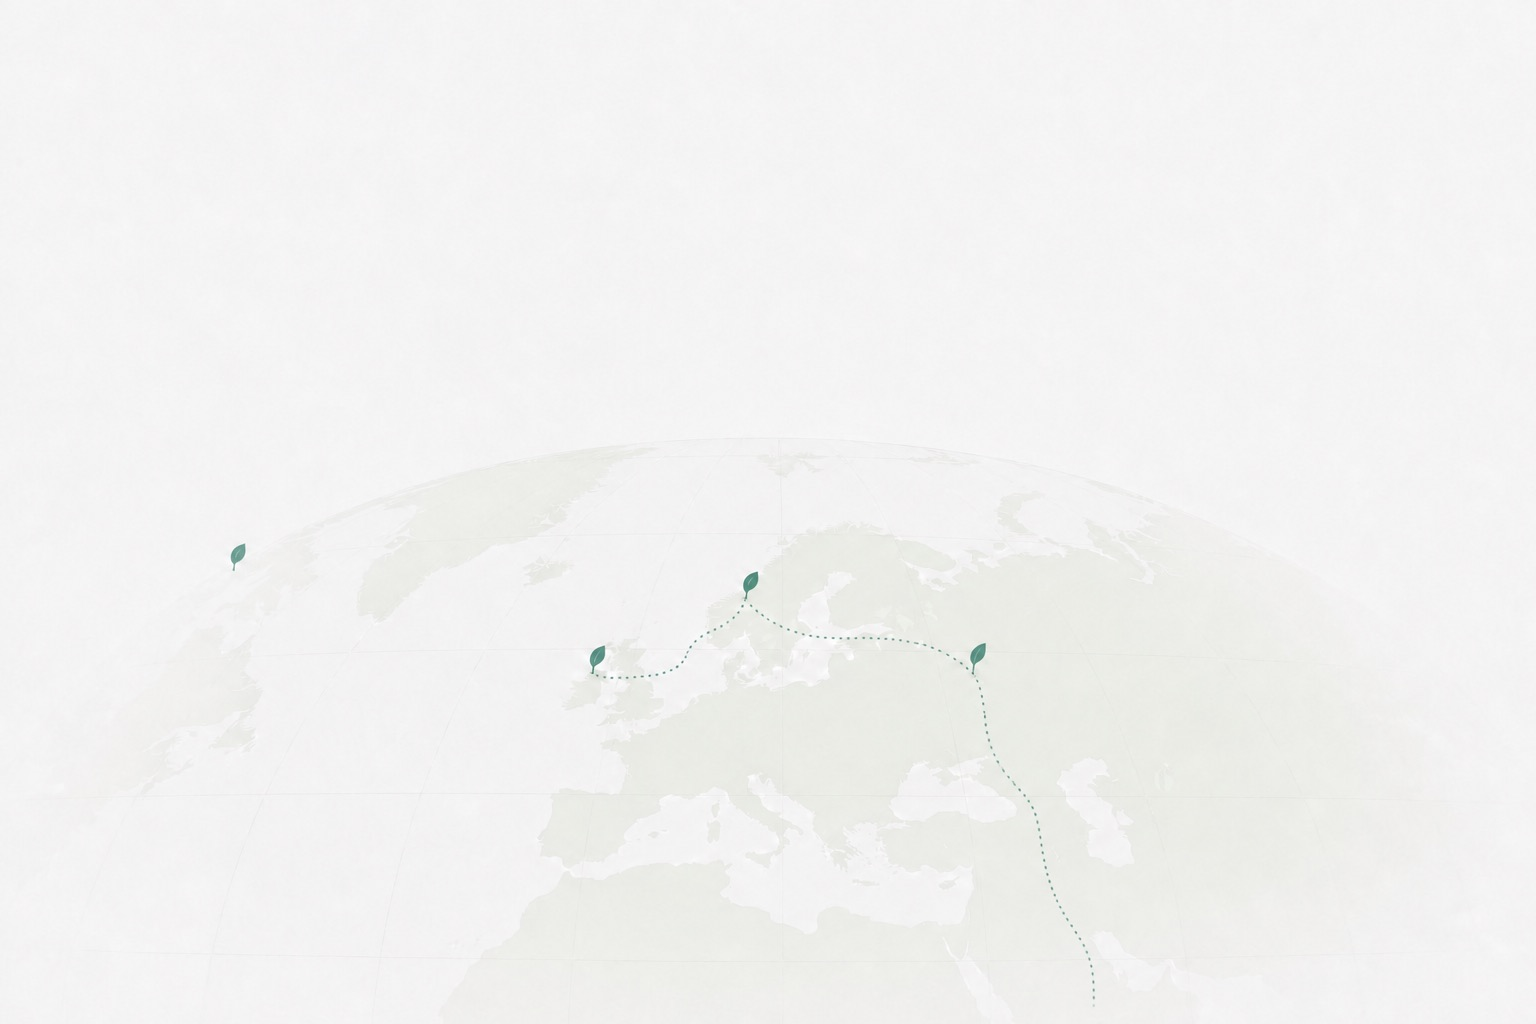
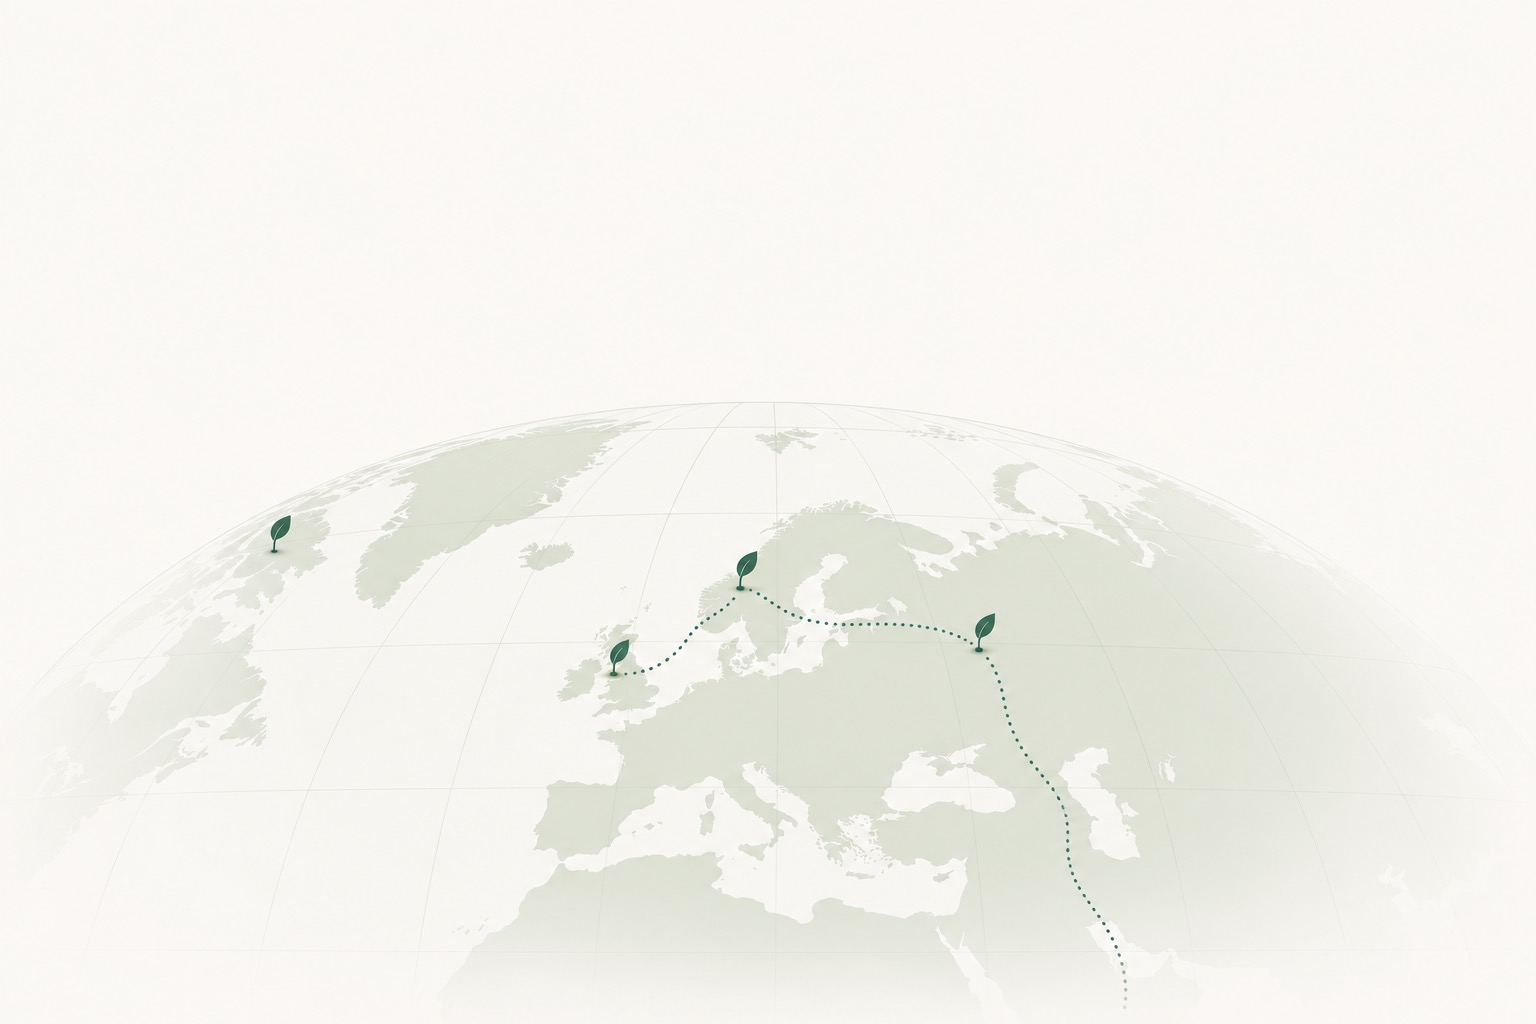
Refine main globe background with grounded leaf sprouts

diff --git a/style.css b/style.css
@@ -1509,8 +1509,8 @@ body.is-logged-in #btn-open-auth {
     max-width: none;
     height: auto;
     opacity: 0.92;
-    filter: blur(0.35px) saturate(1.02) brightness(0.94) contrast(1.13);
-    mix-blend-mode: multiply;
+    filter: none;
+    mix-blend-mode: normal;
     -webkit-mask-image:
         linear-gradient(to bottom, transparent 0%, transparent 34%, #000 43%, #000 88%, transparent 100%),
         linear-gradient(to right, transparent 0%, #000 8%, #000 92%, transparent 100%);
